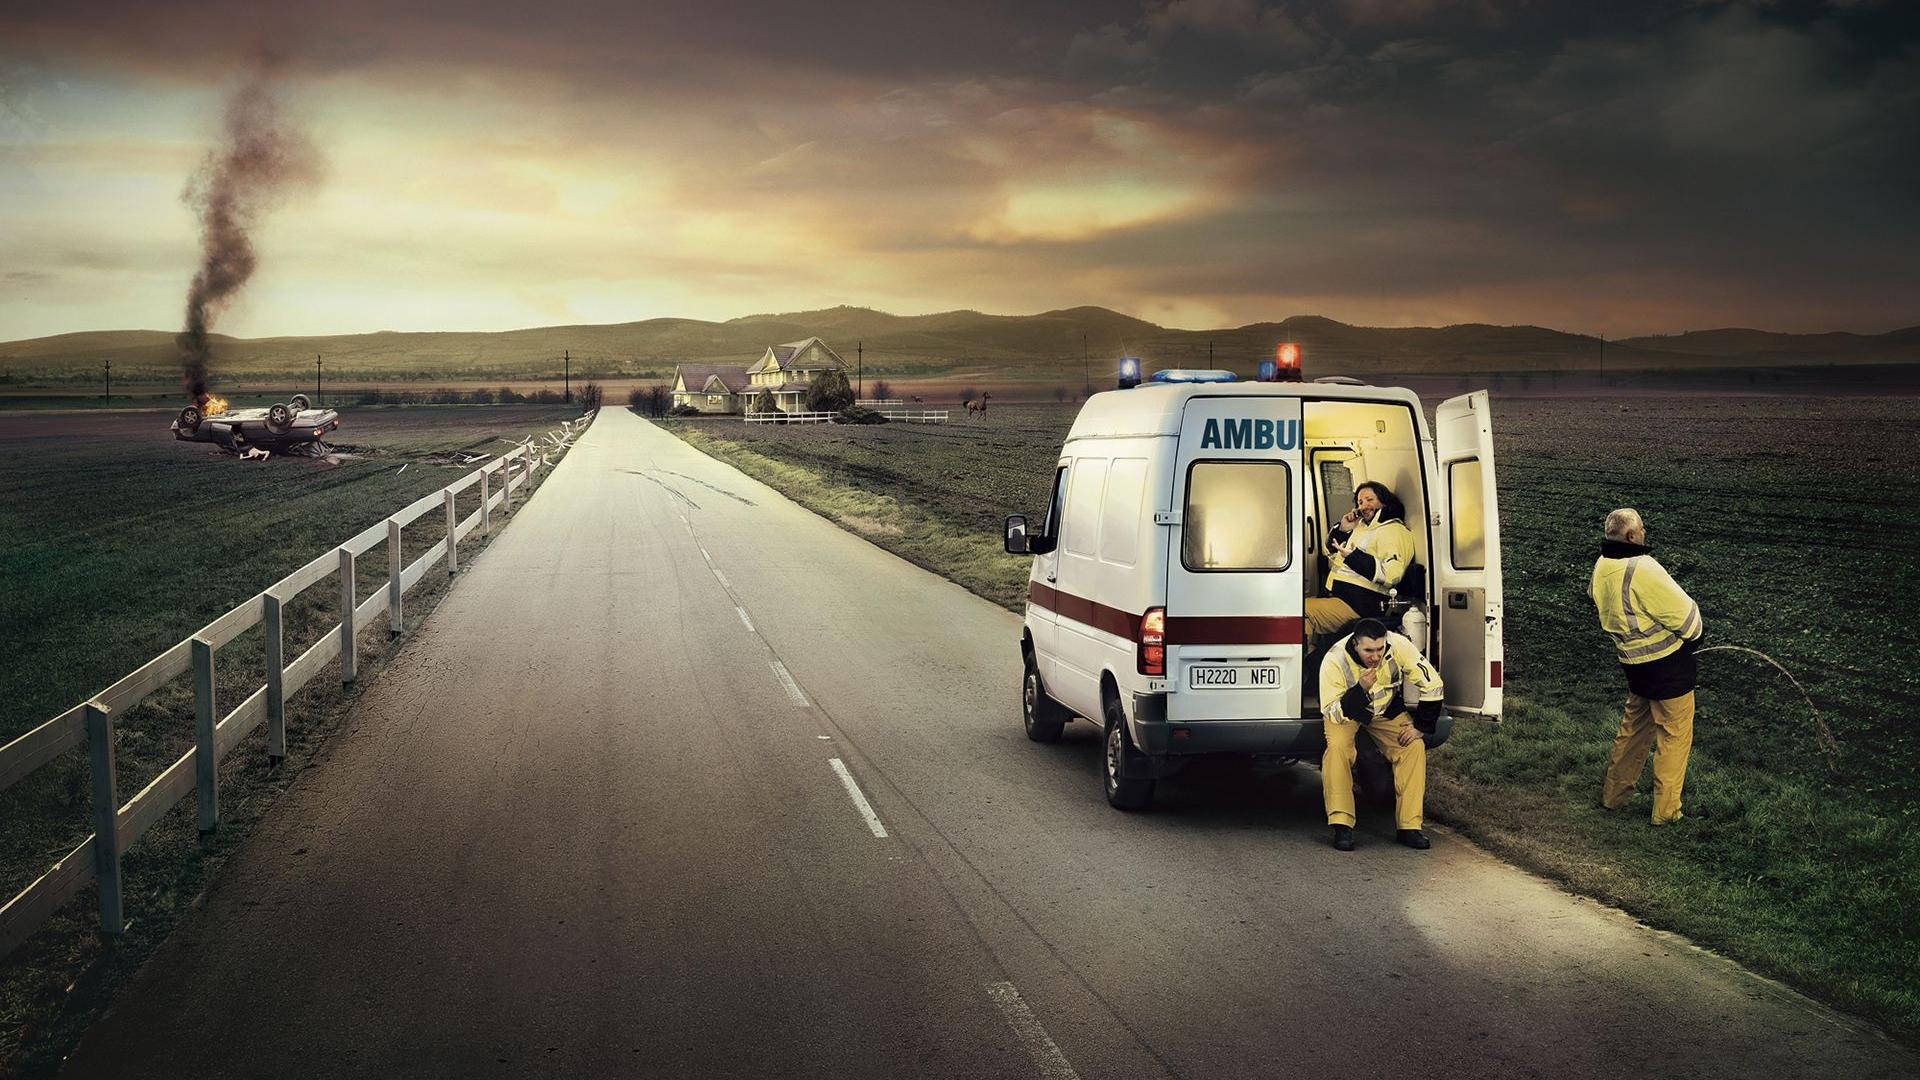
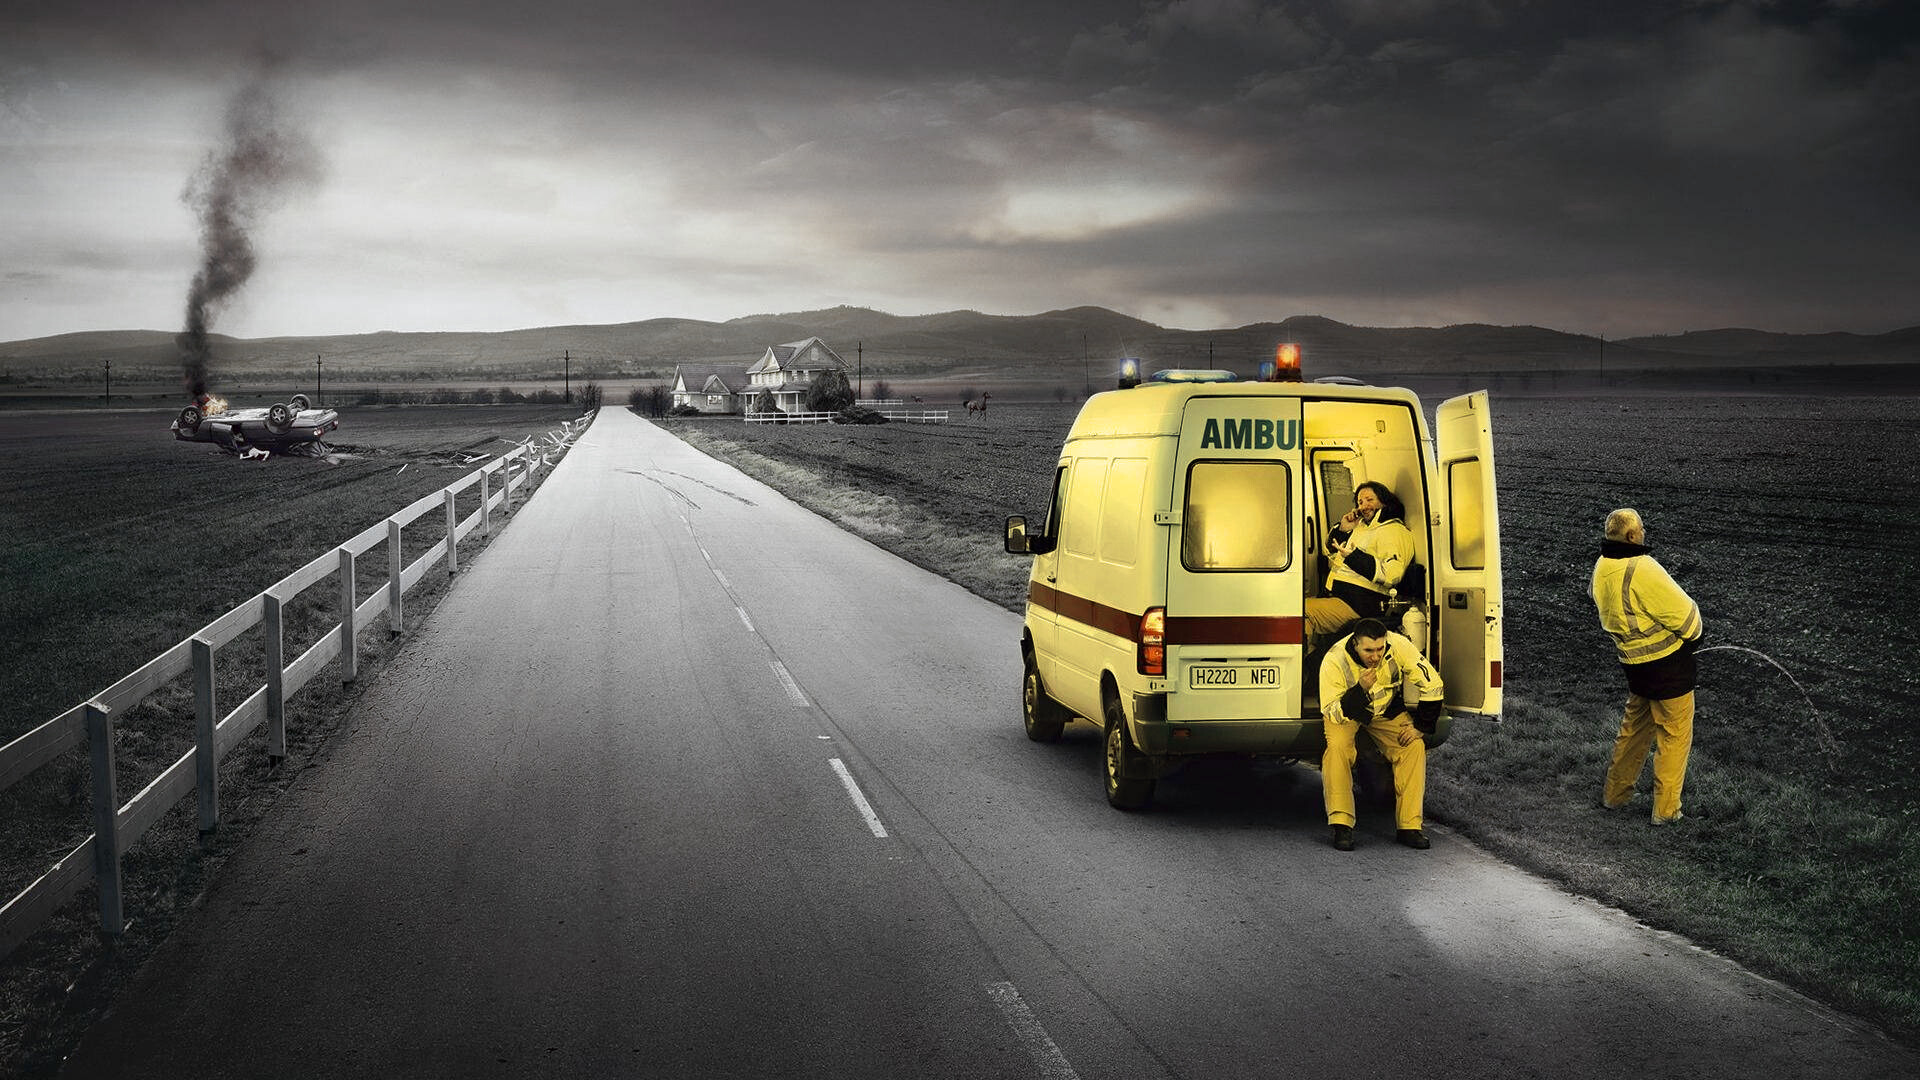
Upraveny bg-login, pridany padding do spinnermini, lahka zmena tailwind forminput

diff --git a/app/_components/FormInput.js b/app/_components/FormInput.js
@@ -17,14 +17,14 @@ export default function FormInput({
 }) {
   return (
     <div className="flex flex-col">
-      <label htmlFor={id} className=" text-white font-bold">
+      <label htmlFor={id} className=" text-white font-bold text-lg">
         {label}
       </label>
       <input
         type={type}
         id={id}
         placeholder={placeholder}
-        className={`hover:cursor-pointer mt-1 px-4 py-2 border w-full rounded-md focus:ring-2 focus:ring-primary-500 focus:outline-none ${disabled ? "bg-primary-200" : "bg-creamy-100"
+        className={`hover:cursor-pointer mt-1 px-4 py-3 border w-full rounded-md focus:ring-2 focus:ring-primary-500 text-xl  focus:outline-none ${disabled ? "bg-primary-50" : "bg-primary-50 font-semibold text-primary-700"
           }`}
         required={required}
         name={name}

diff --git a/app/login/page.js b/app/login/page.js
@@ -8,10 +8,10 @@ export default async function Page() {
   return (
     <div className="relative h-screen overflow-hidden">
       {/* Background Image Layer */}
-      <div className="absolute inset-0 bg-login-bg bg-cover bg-center filter sepia z-0"></div>
+      <div className="absolute inset-0 bg-login-bg bg-cover bg-center filter z-0"></div>
 
       {/* Pulse Gradient Overlay */}
-      <div className="absolute inset-0 bg-gradient-to-b from-black/50 to-black/50 animate-pulse-gradient z-10"></div>
+      {/* <div className="absolute inset-0 bg-gradient-to-b from-black/50 to-black/50 animate-pulse-gradient z-10"></div> */}
 
       {/* Content */}
       <div className="relative z-20 flex items-center justify-center h-full">

diff --git a/app/_components/RegisterButton.js b/app/_components/RegisterButton.js
@@ -9,7 +9,7 @@ export default function RegisterButton() {
     <button
       type="submit"
       disabled={pending}
-      className="disable:bg-creamy-300 bg-quatertary-900 text-primary-50 font-semibold py-3 rounded-md hover:bg-quatertary-800 transition my-4 w-full active:scale-95"
+      className="disable:bg-creamy-300 bg-quatertary-900 text-primary-50 font-semibold py-3 rounded-md hover:bg-quatertary-800 transition my-4 w-full active:scale-95 text-xl"
     >
       {pending ? <SpinnerMini /> : "Registrovať sa"}
     </button>

diff --git a/app/_components/LoginButton.js b/app/_components/LoginButton.js
@@ -8,7 +8,7 @@ export default function LoginButton() {
     <button
       type="submit"
       disabled={pending}
-      className="disable:bg-creamy-300 bg-quatertary-900 text-primary-50 font-semibold py-3 rounded-md hover:bg-quatertary-800 transition my-4 w-full active:scale-95"
+      className="disable:bg-creamy-300 bg-quatertary-900 text-primary-50 font-semibold py-3 rounded-md hover:bg-quatertary-800 transition my-4 w-full active:scale-95 text-xl"
     >
       {pending ? <SpinnerMini /> : "Prihlásiť sa"}
     </button>

diff --git a/app/_styles/globals.css b/app/_styles/globals.css
@@ -27,6 +27,7 @@
     border-right-color: transparent;
     animation: rotate 1s infinite linear;
     margin: 0 auto;
+    padding: 12px;
   }
 
   @keyframes rotate {
